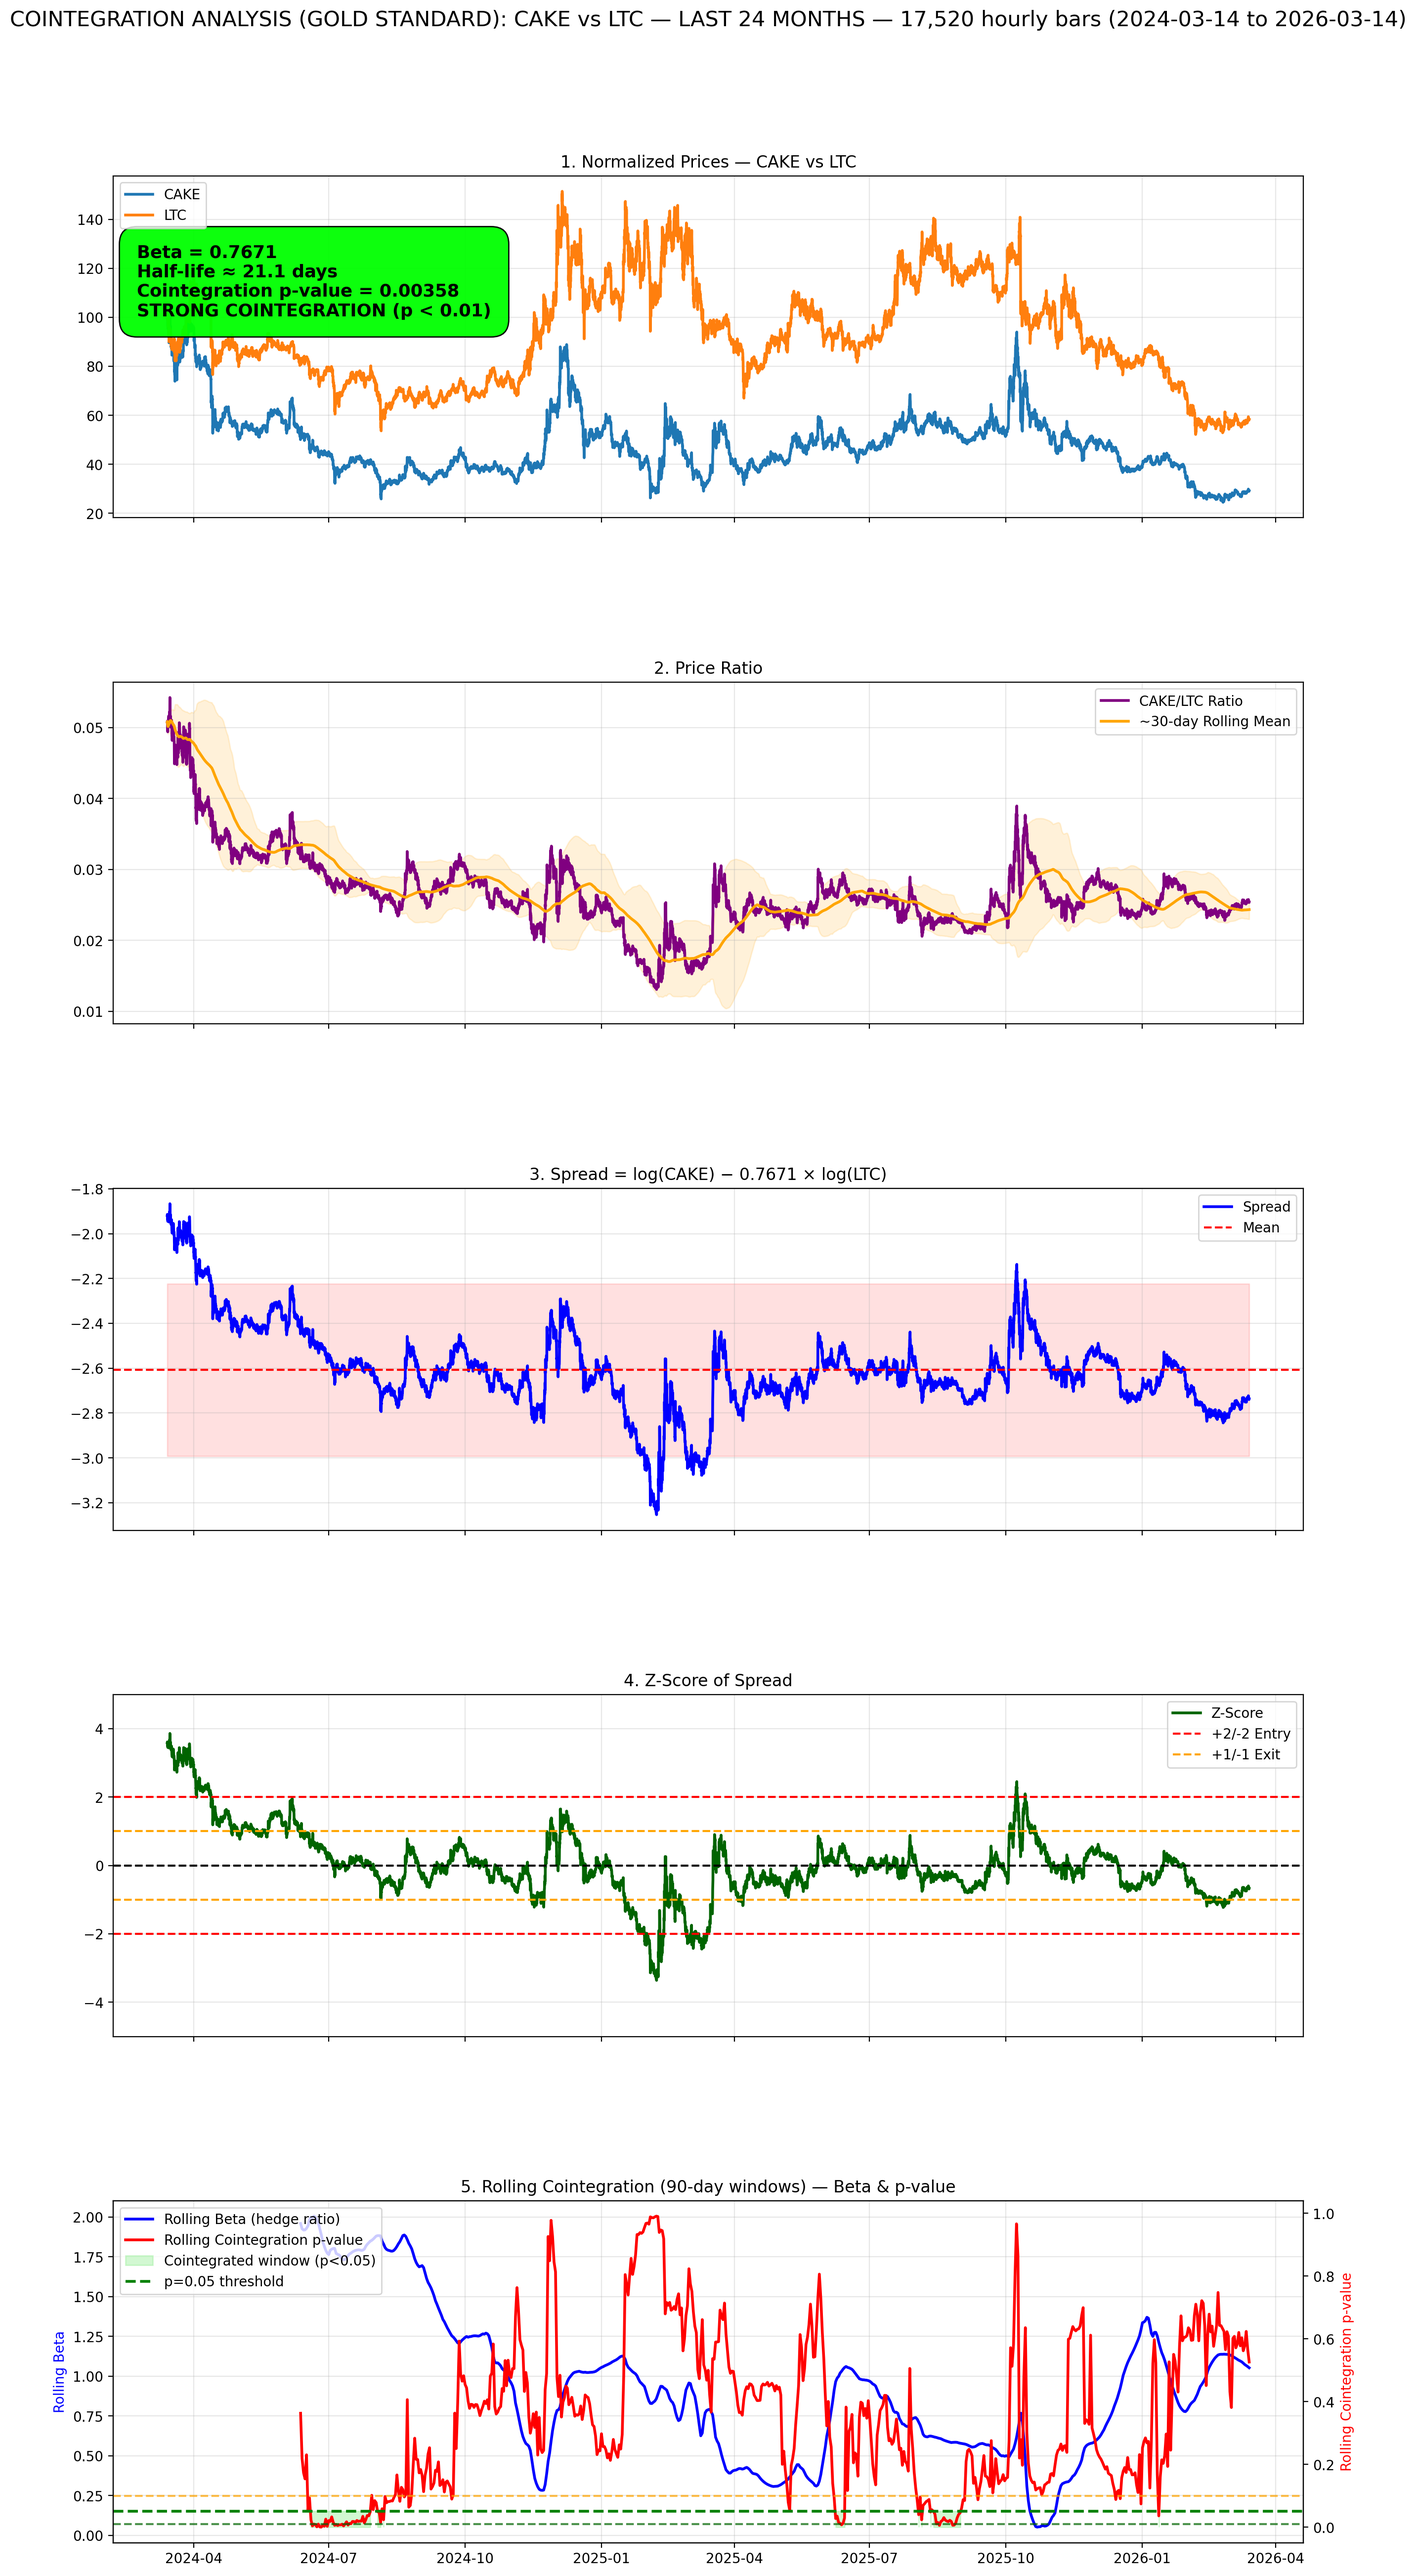
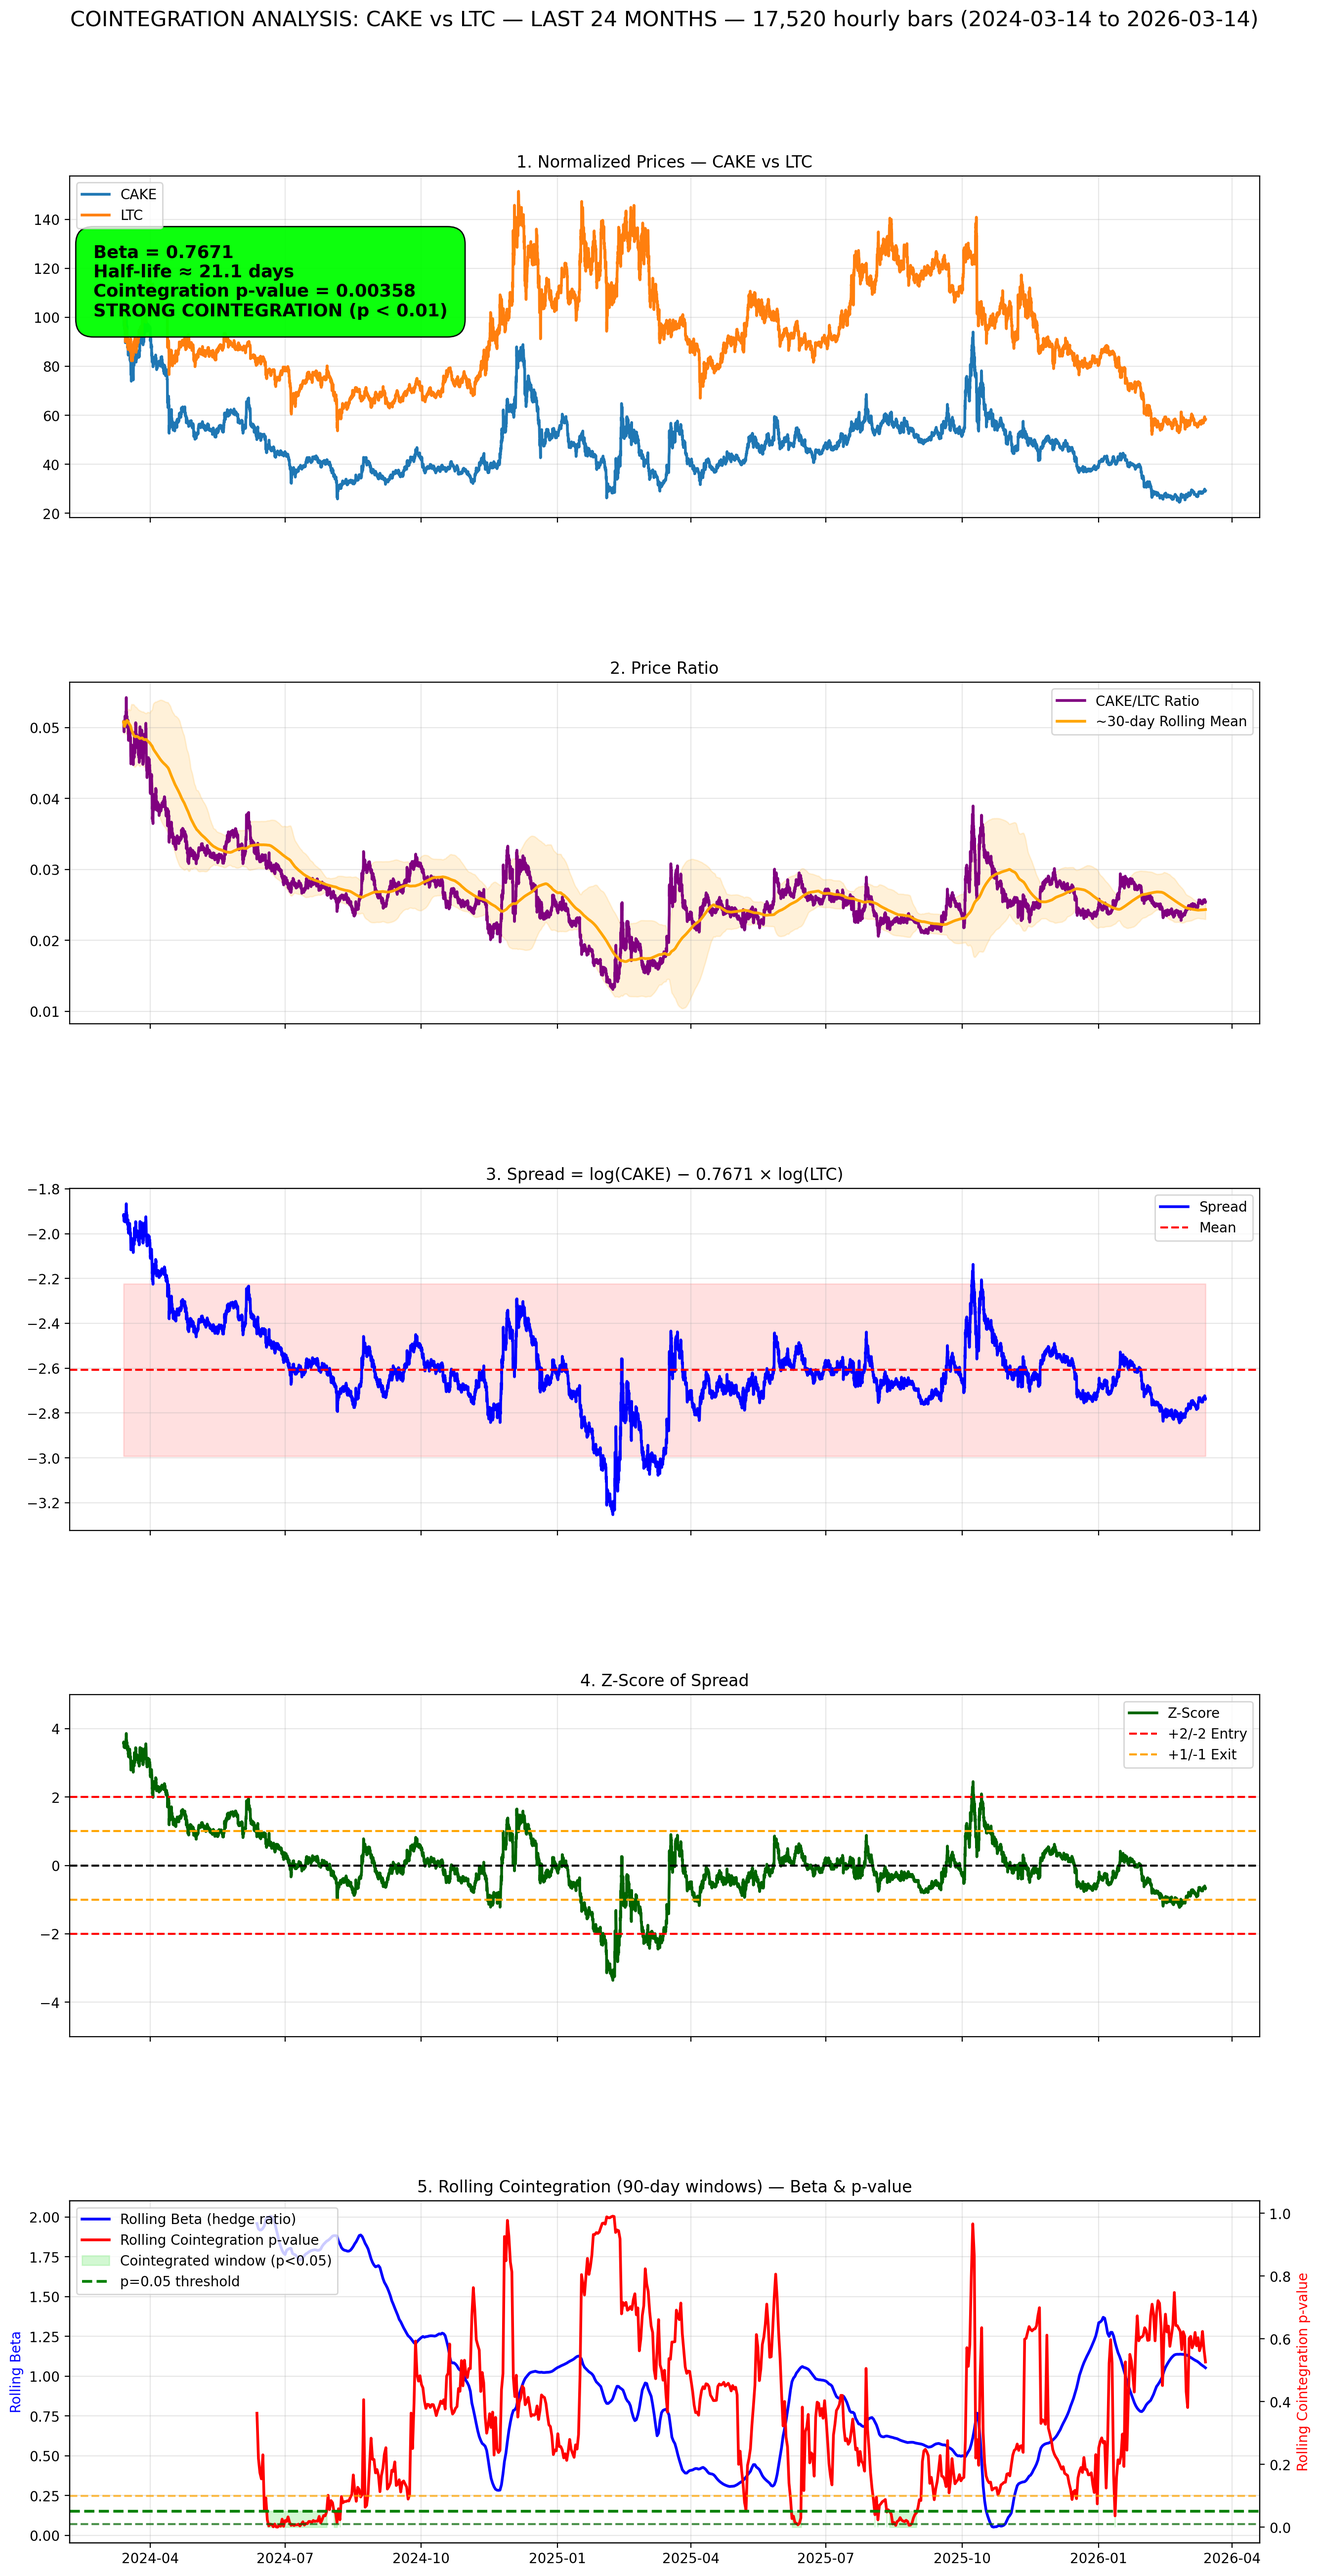
fixed rolling calculations to use cointegraion engine

diff --git a/src/pcv2/get_cointegration.py b/src/pcv2/get_cointegration.py
@@ -1,8 +1,5 @@
 import sys
 import pandas as pd
-import numpy as np
-from statsmodels.api import OLS, add_constant
-from statsmodels.tsa.stattools import coint
 import os
 from dataclasses import dataclass
 from typing import Optional, Tuple
@@ -75,8 +72,7 @@ class CointegrationAnalyzer:
     def compute(self) -> CointegrationResults:
         p1, p2 = self._load_data()
 
-        # === NOW FROM THE CENTRAL COINTEGRATION ENGINE ===
-        # Change ENGLE_GRANGER → JOHANSEN anytime you want to test the new method
+        # === FULL-SAMPLE RESULTS — USING CENTRAL ENGINE ===
         eg = compute_cointegration(p1, p2, method=CointegrationMethod.ENGLE_GRANGER)
 
         beta = eg.beta
@@ -95,24 +91,27 @@ class CointegrationAnalyzer:
         print(f"Half-life: {half_life_days:.1f} days")
         print(f"→ {verdict_console}")
 
-        # === Rolling cointegration (unchanged — still uses raw OLS+coint) ===
-        print(f"\nComputing rolling cointegration ({self.ROLLING_WINDOW_DAYS}-day windows, updated daily) on last {self.max_months} months...")
+        # === ROLLING COINTEGRATION — NOW FULLY CENTRALIZED IN THE ENGINE ===
+        print(f"\nComputing rolling cointegration ({self.ROLLING_WINDOW_DAYS}-day windows, updated daily) "
+              f"on last {self.max_months} months...")
+
         window = self.ROLLING_WINDOW_DAYS * 24
         step = 24
         rolling_dates, rolling_betas, rolling_pvals = [], [], []
 
-        log_p1 = np.log(p1)
-        log_p2 = np.log(p2)
+        for i in range(0, len(p1) - window + 1, step):
+            win1 = p1.iloc[i:i + window]
+            win2 = p2.iloc[i:i + window]
 
-        for i in range(0, len(log_p1) - window + 1, step):
-            win1, win2 = log_p1.iloc[i:i+window], log_p2.iloc[i:i+window]
-            beta_win = OLS(win1, add_constant(win2)).fit().params.iloc[1]
-            _, pval_win, _ = coint(win1, win2, autolag='AIC')
-            rolling_betas.append(beta_win)
-            rolling_pvals.append(pval_win)
-            rolling_dates.append(log_p1.index[i + window - 1])
+            # One clean engine call per window — exactly like full-sample
+            eg_win = compute_cointegration(win1, win2, method=CointegrationMethod.ENGLE_GRANGER)
 
-        print(f"Rolling windows computed: {len(rolling_dates)}")
+            rolling_betas.append(eg_win.beta)
+            rolling_pvals.append(eg_win.p_value)
+            rolling_dates.append(p1.index[i + window - 1])
+
+        print(f"Rolling windows computed: {len(rolling_dates):,} "
+              f"(method: {eg.method_used.value})")
 
         # === Ratio stats (unchanged) ===
         ratio = p1 / p2
